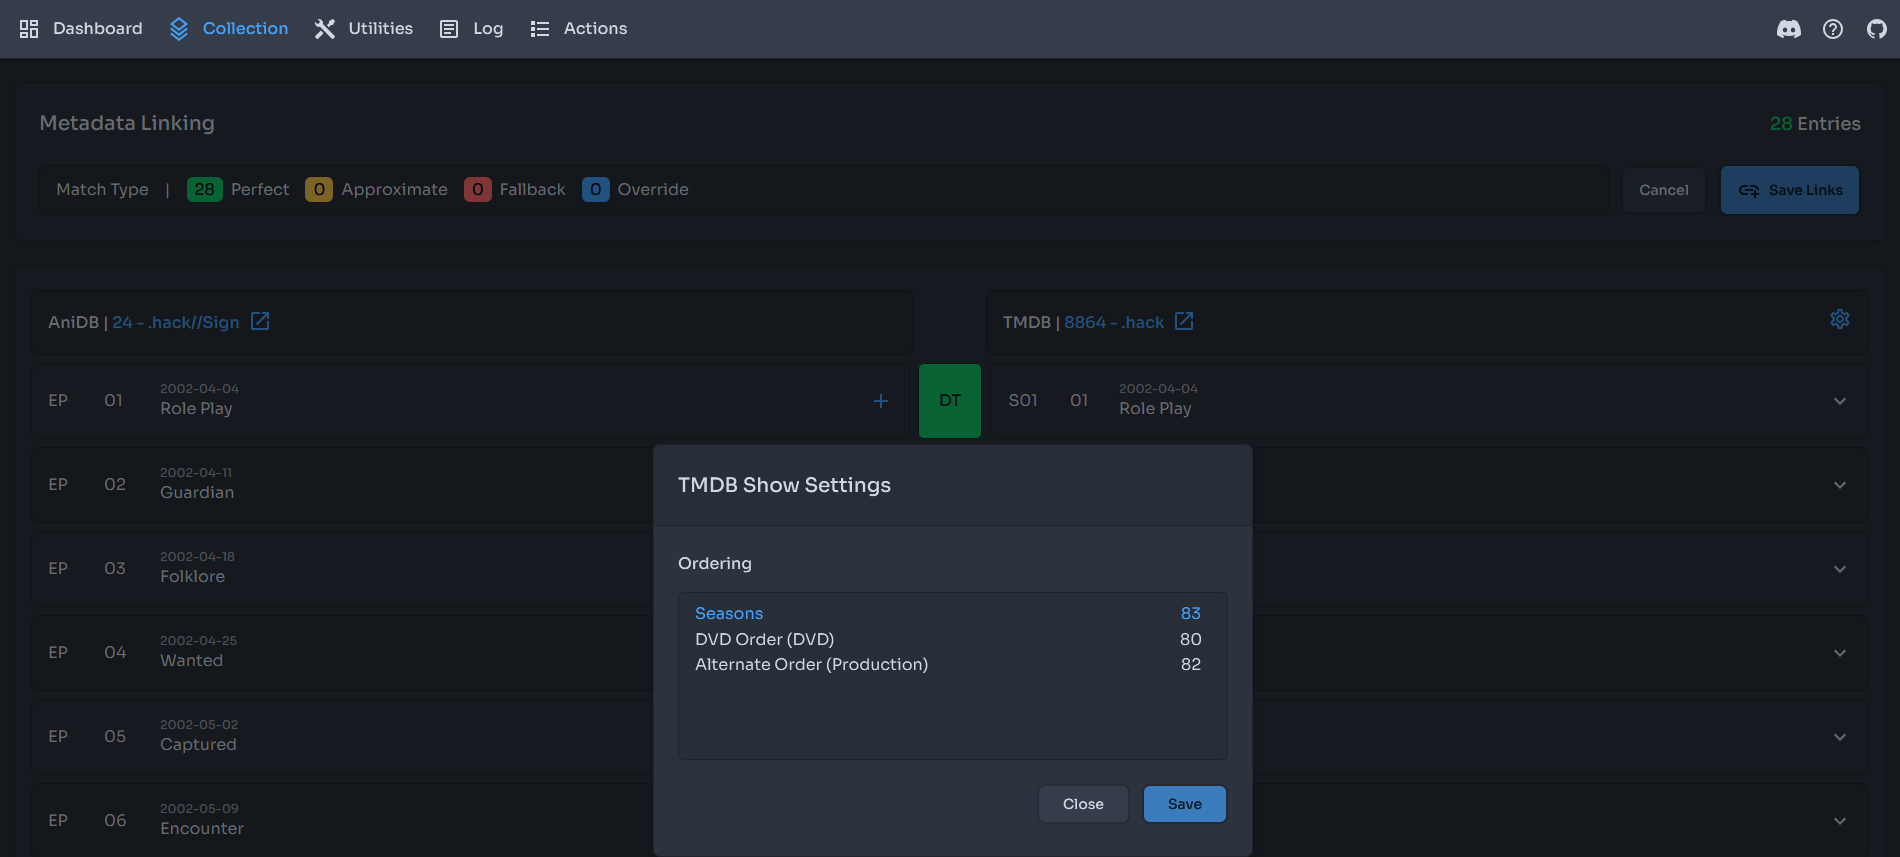
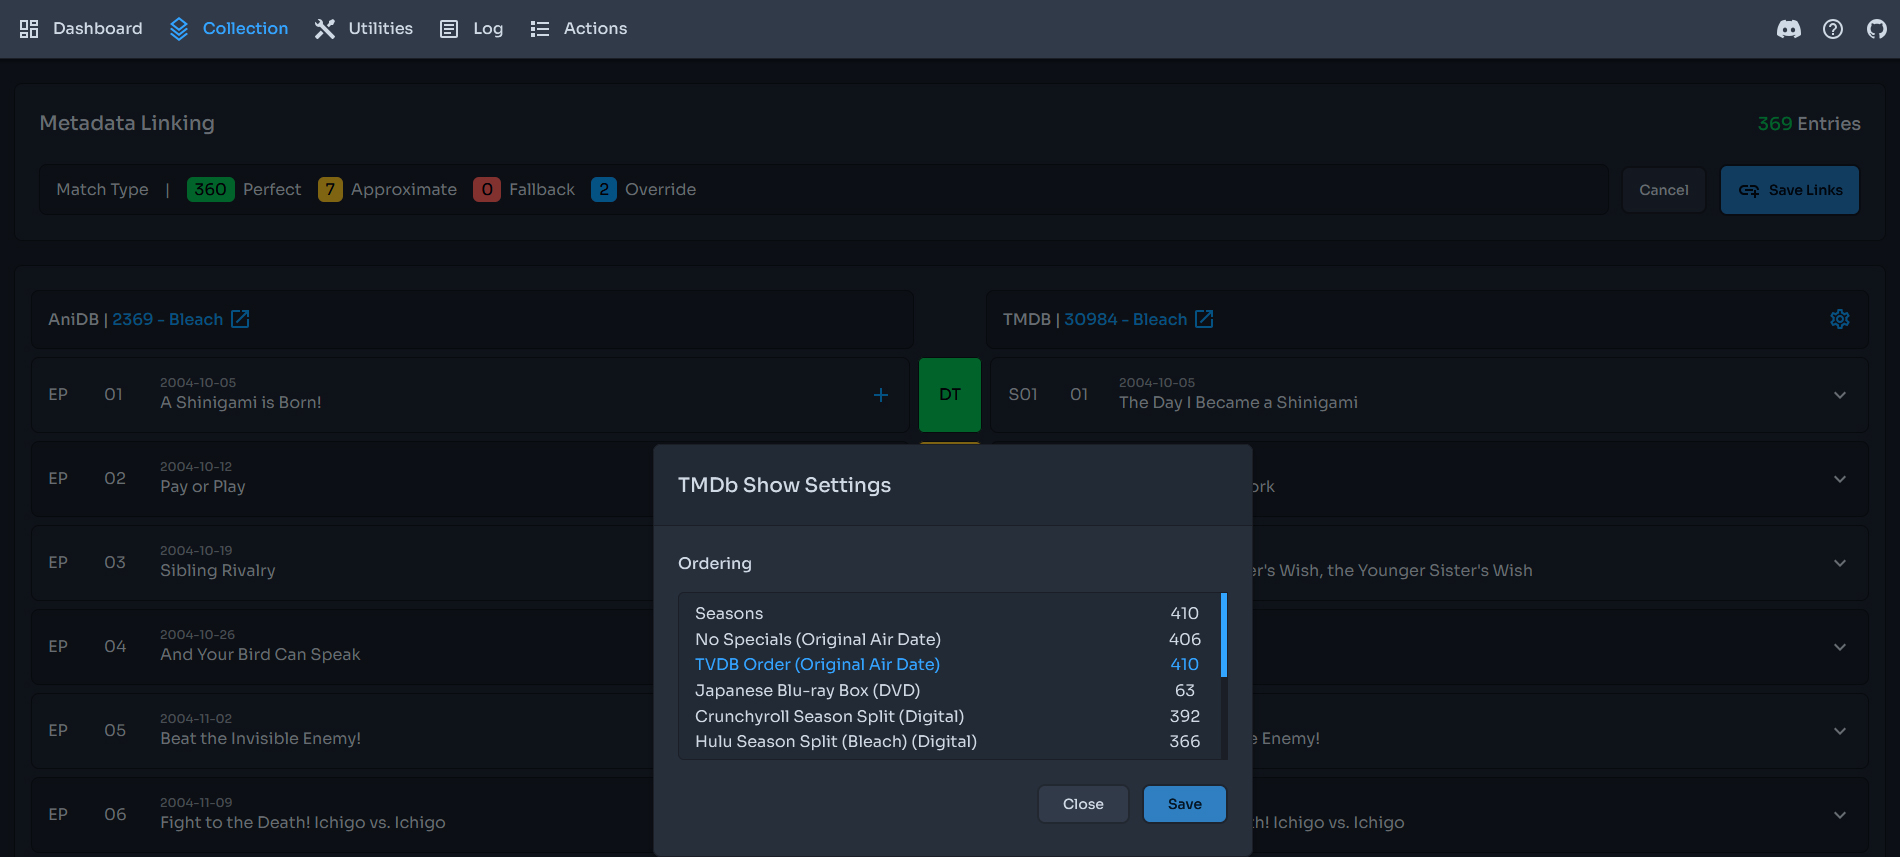
Add Info on Multi-Entry Episodes to TMDB Features
- added a note on episode thumbnails
- expanded the multi-entry series info with an image
- switch the ordering image to reflect the example used

diff --git a/docs/shoko-server/tmdb-features.md b/docs/shoko-server/tmdb-features.md
@@ -38,18 +38,27 @@ Adding a link will take you to the **Metadata Linking** page for the series wher
 
 Editing or saving a link will allow you to manage individual episode assignments.
 
-:::info Mutli-Entry Series
-It should noted that some AniDB series will require multiple TMDB links to complete all of their metadata. Using
-[Heaven's Feel](https://anidb.net/anime/10755) as an example it can be observed that the page includes what TMDB considers
-to be three separate movies. So each of those links would have to be added and attached to their respective "episode".
-:::
-
 ![Shoko Server - Metadata Linking - Page - Linked](/images/shoko-server/shoko-server-matadata-linking-page-linked.jpg)
+
+### Mutli-Entry Series
+Some AniDB series will require multiple TMDB links to complete all of their metadata. Using [Fate/Stay Night: Heaven's Feel](https://anidb.net/anime/10755)
+as an example, it can be observed that the AniDB entry includes what TMDB considers to be three separate movies.
+So each of those entries would have to be added and attached to their respective "episode" using the **Add Link** button.
+
+![Shoko Server - Metadata Linking - Page - Multi-Series](/images/shoko-server/shoko-server-matadata-linking-page-linked.jpg)
+
+### Multi-Entry Episodes
+TMDB's [bible](https://www.themoviedb.org/bible/tv/59f743289251416e71000037#5b71c6b4c3a3684161000001) contains the unfortunate rule that anime with multiple "segments" or "stories" in a single episode must be split into separate entries.
+This causes some series to have significantly inflated episode counts on TMDB (fortunately this rule doesn't seem to be strictly enforced).
+Using the original [Urusei Yatsura](https://anidb.net/anime/377) as an example, note that the first 23 episodes are split into two parts each on TMDB. This requires manually adding
+each part by clicking the **Add Link** button next to the AniDB episode title and then selecting the individual parts of the episode as listed on TMDB.
+
+![Shoko Server - Metadata Linking - Page - Multi-Episode](/images/shoko-server/shoko-server-matadata-linking-page-linked.jpg)
 
 ## Alternate Episode Ordering
 
 It is quite common for anime to have multiple ways of grouping the episodes into seasons. This includes: DVD/BD
-ordering, stream site listings or even manga story arcs. Using Bleach as an example you can see that [TMDB](https://www.themoviedb.org/tv/30984-bleach/seasons) doesn't split
+ordering, stream site listings or even manga story arcs. Using [Bleach](https://anidb.net/anime/2369) as an example you can see that [TMDB](https://www.themoviedb.org/tv/30984-bleach/seasons) doesn't split
 the original run into seasons while many people may expect it to. Fortunately, TMDB's [Episode Groups](https://www.themoviedb.org/tv/30984-bleach/episode_groups) page provides several
 alternate ordering options in case you would like to use one of those instead.
 
@@ -86,7 +95,12 @@ the 16 character `AlternateOrderingID` in the request body to one of the ones av
 ## Additional Image Support
 
 Without TMDB links Shoko only supports a single poster per series. To enable additional posters, backdrops and logos make sure to enable them in
-Shoko's [TMDB Options](/shoko-server/settings#tmdb-options). Once enabled, the default image (for each of the aforementioned types) can be managed
-in the **Selected Image Info** panel of the **Images** tab on a series page. Simply select the desired image and then click the **Set As Preferred** button.
+Shoko's [TMDB Options](/shoko-server/settings#tmdb-options). Once enabled, the default image (for each of the aforementioned types) can be managed in the **Selected Image Info**
+panel of the **Images** tab on a series page. Simply select the desired image and then click the **Set As Preferred** button.
+
+:::info Episode Thumbnails
+Individual episodes will also have images attached to them when a TMDB link is present (with movie links using the backdrop as a fallback)
+but they cannot be customised from the WebUI at this time
+:::
 
 ![Shoko Server - Selected Image Info - Panel](/images/shoko-server/shoko-server-selected-image-info-panel.jpg)
